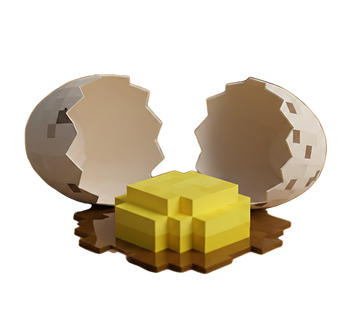
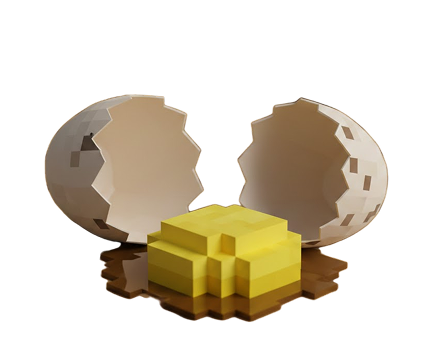
sistemato dinecraft, allergeni piatto1

Changed region(s): [[0.0618, 0.2257, 0.927, 0.9592]]

diff --git a/menu/descrizione-piatto-1.html b/menu/descrizione-piatto-1.html
@@ -92,7 +92,7 @@
         </div>
     </div>
 
-    <div class="container-fluid text-center redstone-background g-0">
+    <div class="container-fluid text-center stone-background g-0">
         <div class="row py-5 g-0">
             <div class="col-12 pb-5 d-flex justify-content-center ">
                 <h2>Il tuo Craft</h2>
@@ -136,8 +136,8 @@
             </div>
             <div class="col-8 col-lg-9 mx-auto mt-4 mt-lg-5 spacer-bottom-menu">
                 <div class="burger-card w-100">
-                    <div class="d-flex flex-column flex-lg-row align-items-center justify-content-between">
-                        <img src="../img/body/piattosingolo1/menu.png" alt="menu" style="max-width: 150px;">
+                    <div class="d-flex flex-column flex-lg-row align-items-center justify-content-between w-100">
+                        <img src="../img/body/piattosingolo1/menu.png" alt="menu">
                         <div class="px-lg-4 text-center text-lg-start conf-menu">
                             <h3><b>Configura il tuo Menù</b></h3>
                             <p>Scegli quale Greenstack abbinare a Patatine e Bevanda sbloccate.</p>
@@ -155,33 +155,55 @@
         </div>
     </div>
     
-    <div class="container-fluid text-center redstone-background g-0"> /* cambiare sfondo */
-        <div class="container-fluid text-center first-background g-0">
+    <div class="container-fluid text-center first-background g-0">
+        <div class="container-fluid text-center g-0">
             <div class="row py-5 g-0">
                 <div class="col-12 pb-5 d-flex justify-content-center">
                     <h2>Ingredienti</h2>
                 </div>
-                <div class="col-8 mx-auto pb-5">
-                    <div class="dinecraft-card">
-                        <img src="../img/body/piattosingolo1/dinecraft.png" alt="dinecraft">
+                <div class="col-8 col-lg-9 mx-auto pb-5">
+                    <div class="dinecraft-card justify-content-center">
+                        <img src="../img/body/piattosingolo1/dinecraft-verticale.png" alt="Dinecraft Mobile" class="img-fluid d-lg-none">
+                         <img src="../img/body/piattosingolo1/dinecraft-orizzontale.png" alt="Dinecraft Desktop" class="img-fluid d-none d-lg-block">
                     </div>
                 </div>
             </div>
         </div>
-        <div class="col-12 p-5 d-flex justify-content-center">
-            <h2>Allergeni</h2>
-        </div>
-        <div class="col-8 mx-auto pb-5">
-            <div class="allergens-card d-flex flex-column align-items-center">
-                <img src="../img/body/piattosingolo1/lattedimucca.png" alt="latte di mucca">
-                <h3 class="pb-5 text-center"> Latte di Mucca </h3>
-                <img src="../img/body/piattosingolo1/grano.png" alt="grano">
-                <h3 class="pb-5 text-center"> Grano </h3>
-                <img src="../img/body/piattosingolo1/uovadipollo.png" alt="uova di pollo">
-                <h3 class="text-center"> Uova di pollo </h3>
-            </div>
-        </div>
 
+    <div class="container-fluid text-center stone-background g-0">
+        <div class="container-fluid text-center g-0">
+            <div class="col-12 p-5 d-flex justify-content-center">
+                <h2>Allergeni</h2>
+            </div>
+            <div class="col-8 col-lg-9 mx-auto pb-5">
+                <div class="allergens-card d-flex flex-column flex-lg-row align-items-center">
+                    <div class="allergen-item text-center">
+                        <div class="allergen-img-container">
+                            <img src="../img/body/piattosingolo1/lattedimucca.png" alt="latte di mucca" class="img-fluid mb-2">
+                        </div>
+                        <div class="allergen-text-container">    
+                            <h3> Latte di Mucca </h3>
+                        </div>
+                    </div>
+                    <div class="allergen-item text-center">
+                        <div class="allergen-img-container">
+                            <img src="../img/body/piattosingolo1/grano.png" alt="grano" class="img-fluid mb-2">
+                        </div>
+                        <div class="allergen-text-container">
+                            <h3> Grano </h3>
+                        </div>
+                    </div>
+                    <div class="allergen-item text-center">
+                        <div class="allergen-img-container">
+                            <img src="../img/body/piattosingolo1/uovadipollo.png" alt="uova di pollo" class="img-fluid mb-2">
+                        </div>
+                        <div class="allergen-text-container">
+                            <h3> Uova di pollo </h3>
+                        </div>
+                    </div>
+                </div>
+            </div>
+    </div>
     <footer class="container-fluid bg-dark py-5 footer-custom-bg">
         <div class="row align-items-center">
 

diff --git a/css/piattosingolo1.css b/css/piattosingolo1.css
@@ -36,15 +36,75 @@
     padding: 1.25rem;
 }
 
-.allergens-card img {
-    display: block;
-    margin-left: auto;
-    margin-right: auto;
-    max-width: 100%; /* Evita che l'immagine sia più larga della card */
+.price-container{
+    white-space: nowrap;
 }
+
+.allergens-card {
+    padding: 0rem;
+    gap: 2rem; /* Gap verticale su mobile */
+}
+
+.allergen-item {
+    display: flex;
+    flex-direction: column;
+    align-items: center;
+    text-align: center;
+    width: 100%;
+}
+
+.allergen-img-container {
+    display: flex;
+    align-items: center;
+    justify-content: center;
+    margin-bottom: 1rem; /* Spazio costante tra l'immagine e il testo */
+    width: 100%;
+}
+
+/* 2. Il tuo stile originale per le immagini (pulito e fluido) */
+.allergen-item img {
+    max-height: 100%; /* Si adatta all'altezza del contenitore */
+    width: auto;
+    object-fit: contain;
+}
+
+/* 3. Il nuovo div del testo */
+.allergen-text-container {
+    width: 100%;
+}
+
+
+/* ==========================================
+   AGGIUNTE PER IL DESKTOP (Da 992px in su)
+   ========================================== */
+@media (min-width: 992px) {
+    .allergens-card {
+        display: flex;
+        flex-direction: row;        /* Gira gli allergeni in orizzontale */
+        gap: 2.5625rem !important;  /* Il tuo gap millimetrico di 41px (41/16) */
+        justify-content: center;
+    }
+
+    .allergen-item {
+        flex: 1 1 0px;              /* Forza le 3 colonne a essere larghe IDENTICHE */         
+        justify-content: space-between; /* Spinge il testo alla base se l'immagine sopra è più bassa */
+    }
+
+    /* 4. Il trucco magico: blocchiamo l'altezza del contenitore foto solo su desktop */
+    .allergen-img-container {
+        height: 170px; /* Crea una scatola invisibile alta uguale per Latte, Grano e Uova */
+    }
+
+    .allergen-text-container h3 {
+        white-space: nowrap;        /* Impedisce a "Uova di pollo" di spezzarsi su due righe */
+        margin: 0;                  /* Azzera i margini per un allineamento millimetrico */
+    }
+}
+
 .redstone-background .row {
     perspective: 1000px;
 }
+
 
 .number {
     /* Sfondo e bordo */
@@ -71,13 +131,35 @@
     align-items: center;
     /* Centra tutto orizzontalmente */
     padding: 3rem;
+    
 }
 
 .dinecraft-card img {
     /* Fondamentale: l'immagine si adatta alla larghezza del div meno il padding */
-    max-width: 100%;
+    max-width: 70%;
     height: auto;
     display: block;
+}
+
+@media (min-width: 992px) {
+    .dinecraft-card {
+        flex-direction: row; /* Layout orizzontale */
+        width: 100% !important;
+        
+        /* 1. APPLICHIAMO LE MISURE DI FIGMA CONVERTITE IN REM */
+        height: auto;
+        padding: 4.375rem !important;  /* I tuoi 70px */
+        
+        /* 2. CENTRATURA VERTICALE PERFETTA DEL CONTENUTO */
+        align-items: center !important; 
+        justify-content: space-between;
+    }
+
+
+    /* Allineamento testo */
+    .dinecraft-text-container {
+        text-align: start !important;
+    }
 }
 
 @media (min-width: 576px) {

diff --git a/menu/descrizione-piatto-2.html b/menu/descrizione-piatto-2.html
@@ -136,7 +136,7 @@
             <div class="col-8 col-lg-9 mx-auto mt-4 mt-lg-5 spacer-bottom-menu">
                 <div class="burger-card w-100">
                     <div class="d-flex flex-column flex-lg-row align-items-center justify-content-between">
-                        <img src="../img/body/piattosingolo2/menu.png" alt="menu" style="max-width: 150px;">
+                        <img src="../img/body/piattosingolo2/menu.png" alt="menu">
                         <div class="px-lg-4 text-center text-lg-start conf-menu">
                             <h3><b>Configura il tuo Menù</b></h3>
                             <p>Scegli quale Greenstack abbinare a Patatine e Bevanda sbloccate.</p>

diff --git a/menu/descrizione-piatto-3.html b/menu/descrizione-piatto-3.html
@@ -136,7 +136,7 @@
             <div class="col-8 col-lg-9 mx-auto mt-4 mt-lg-5 spacer-bottom-menu">
                 <div class="burger-card w-100">
                     <div class="d-flex flex-column flex-lg-row align-items-center justify-content-between">
-                        <img src="../img/body/piattosingolo3/menu.png" alt="menu" style="max-width: 150px;">
+                        <img src="../img/body/piattosingolo3/menu.png" alt="menu">
                         <div class="px-lg-4 text-center text-lg-start conf-menu">
                             <h3><b>Configura il tuo Menù</b></h3>
                             <p>Scegli quale Greenstack abbinare a Patatine e Bevanda sbloccate.</p>
